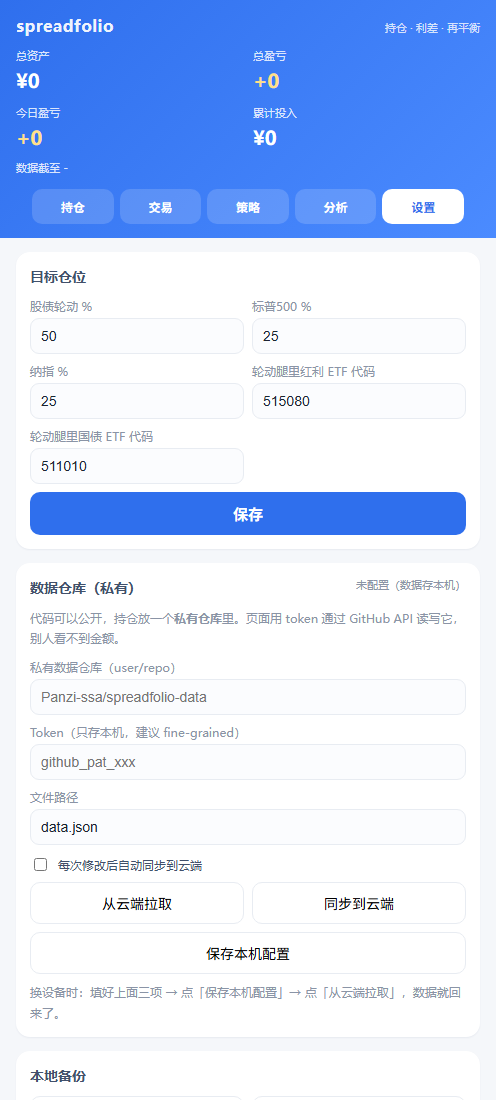
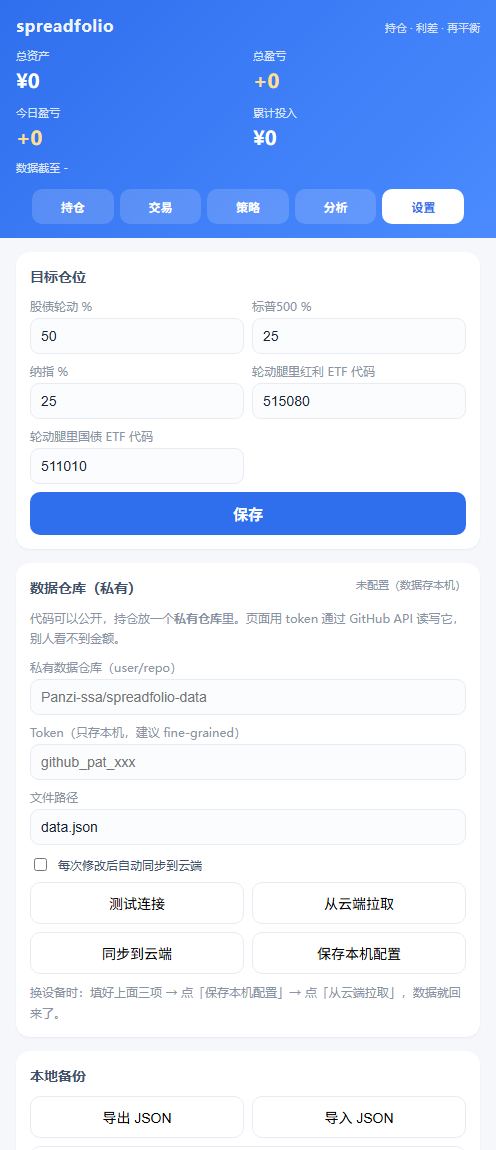
feat: 增加「测试连接」诊断（token/仓库/文件三步排查）

diff --git a/app.js b/app.js
@@ -823,11 +823,41 @@ function saveCfg(c) { localStorage.setItem(LS_CFG, JSON.stringify(c)); }
 async function ghRead(c, quiet) {
   const u = "https://api.github.com/repos/" + c.repo + "/contents/" + (c.path || "data.json");
   const r = await fetch(u, { headers: { Authorization: "token " + c.token, Accept: "application/vnd.github+json" } });
-  if (!r.ok) { if (!quiet) alert("\u8bfb\u53d6\u5931\u8d25\uff1a" + r.status + "\uff08\u79c1\u6709\u4ed3\u5e93\u9700\u8981\u6709\u6548 token\uff09"); return null; }
+  if (!r.ok) { if (!quiet) { alert(r.status === 404
+      ? "\u8bfb\u53d6\u5931\u8d25\uff1a404\n\n\u5e38\u89c1\u539f\u56e0\uff1a\n1) \u4ed3\u5e93\u540d\u5199\u9519\u6216\u4ed3\u5e93\u4e0d\u5b58\u5728\n2) token \u6ca1\u52fe\u9009\u8fd9\u4e2a\u4ed3\u5e93\uff08fine-grained \u5fc5\u987b\u624b\u52a8\u9009\uff09\n3) \u6587\u4ef6\u4e0d\u5b58\u5728\uff0c\u6bd4\u5982\u5b9e\u9645\u53eb data.json.txt\n\n\u70b9\u300c\u6d4b\u8bd5\u8fde\u63a5\u300d\u53ef\u5b9a\u4f4d\u662f\u54ea\u4e00\u6b65\u3002"
+      : "\u8bfb\u53d6\u5931\u8d25\uff1a" + r.status); } return null; }
   const j = await r.json();
   const txt = decodeURIComponent(escape(atob(j.content.replace(/\n/g, ""))));
   const d = JSON.parse(txt);
   return d;
+}
+
+async function testConn() {
+  const c = cfg();
+  if (!c.repo || !c.token) return alert("先填仓库和 token");
+  const H = { Authorization: "token " + c.token, Accept: "application/vnd.github+json" };
+  const out = [];
+  let r = await fetch("https://api.github.com/user", { headers: H });
+  if (r.ok) { const j = await r.json(); out.push("✅ token 有效，属于 " + j.login); }
+  else { out.push("❌ token 无效/过期（/user " + r.status + "）"); }
+  r = await fetch("https://api.github.com/repos/" + c.repo, { headers: H });
+  if (r.ok) {
+    const j = await r.json();
+    out.push("✅ 仓库可访问：" + j.full_name + (j.private ? "（私有）" : "（公开）"));
+  } else {
+    out.push("❌ 仓库访问失败 " + r.status + "：" + (r.status === 404 ? "仓库名不对，或 token 没勾选这个仓库" : "权限不足"));
+  }
+  const path = c.path || "data.json";
+  r = await fetch("https://api.github.com/repos/" + c.repo + "/contents/" + path, { headers: H });
+  if (r.ok) {
+    const j = await r.json();
+    out.push("✅ 文件存在：" + j.path + "（" + j.size + " 字节）");
+  } else if (r.status === 404) {
+    out.push("❌ 文件不存在：" + path + "（Windows 常把名字存成 data.json.txt，去仓库网页确认）");
+  } else {
+    out.push("❌ 文件读取失败 " + r.status);
+  }
+  alert(out.join("\n"));
 }
 
 async function ghLoad() {
@@ -882,6 +912,7 @@ async function main() {
     $("#dataRepoState").textContent = nc.repo ? "已连接 " + nc.repo : "未配置（数据存本机）";
     alert("已保存到本机");
   };
+  $("#btnTest").onclick = testConn;
   $("#ghLoad").onclick = ghLoad;
   $("#ghSave").onclick = ghSave;
   $("#btnRefresh").onclick = () => refreshPrices(true);

diff --git a/index.html b/index.html
@@ -259,8 +259,8 @@
       <label style="margin-top:10px;display:flex;align-items:center;gap:8px;color:#41506b">
         <input type="checkbox" id="autoSync" style="width:auto"> <span>每次修改后自动同步到云端</span>
       </label>
-      <div class="row"><button id="ghLoad">从云端拉取</button><button id="ghSave">同步到云端</button></div>
-      <div class="row"><button id="saveCfg">保存本机配置</button></div>
+      <div class="row"><button id="btnTest">测试连接</button><button id="ghLoad">从云端拉取</button></div>
+      <div class="row"><button id="ghSave">同步到云端</button><button id="saveCfg">保存本机配置</button></div>
       <div class="hint">
         换设备时：填好上面三项 → 点「保存本机配置」→ 点「从云端拉取」，数据就回来了。
       </div>
